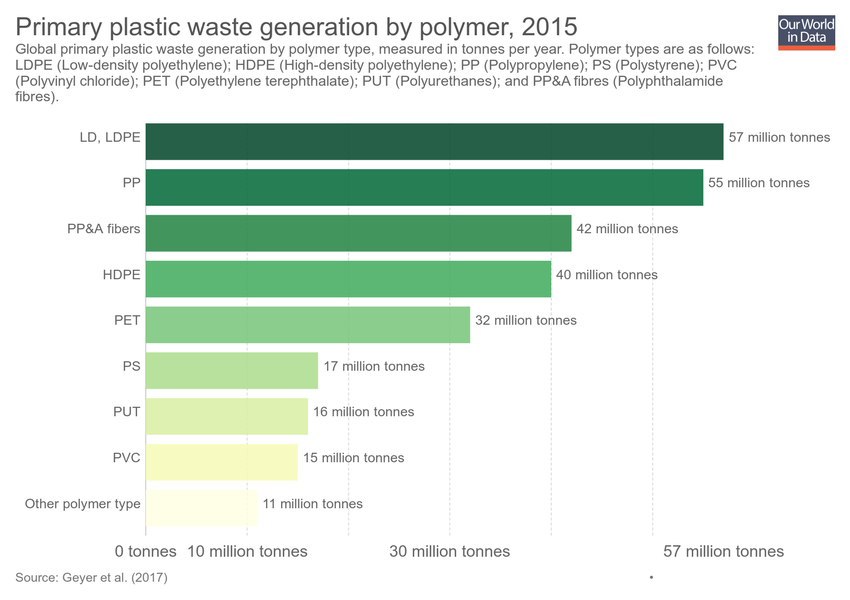
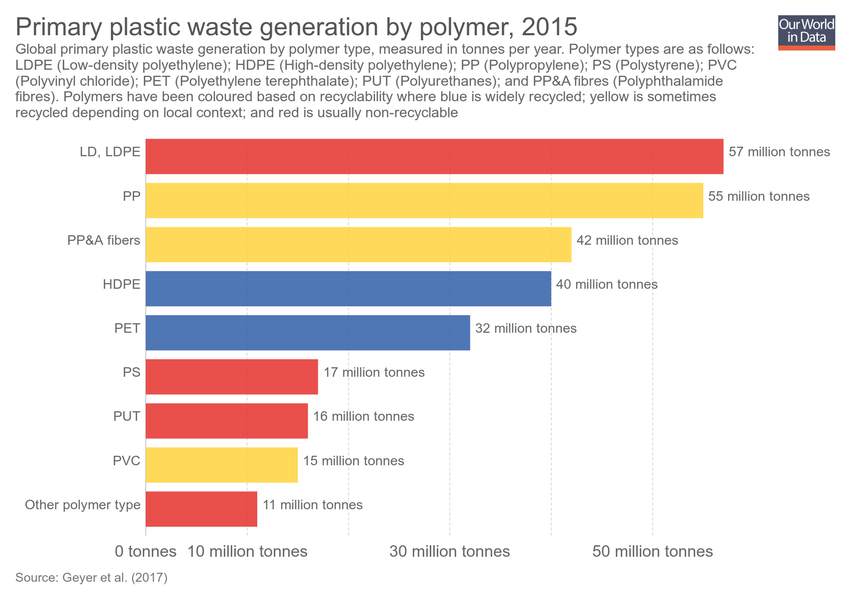
Updating chart plastic-waste-polymer

Changed region(s): [[0.0, 0.15, 0.9788, 0.9], [0.7035, 0.9, 0.9176, 0.93]]

diff --git a/grapher/plastic-waste-polymer.html b/grapher/plastic-waste-polymer.html
@@ -1,7 +1,7 @@
-<!doctype html><html><head><meta name="viewport" content="width=device-width, initial-scale=1" /><title>Primary plastic waste generation by polymer - Our World in Data</title><meta name="description" content="Global primary plastic waste generation by polymer type, measured in tonnes per year. Polymer types are as follows: LDPE (Low-density polyethylene); HDPE (High-density polyethylene); PP (Polypropylene); PS (Polystyrene); PVC (Polyvinyl chloride); PET (Polyethylene terephthalate); PUT (Polyurethanes); and PP&amp;A fibres (Polyphthalamide fibres).
-" /><link rel="canonical" href="https://ourworldindata.org/grapher/plastic-waste-polymer" /><meta property="fb:app_id" content="1149943818390250" /><meta property="og:url" content="https://ourworldindata.org/grapher/plastic-waste-polymer" /><meta property="og:title" content="Primary plastic waste generation by polymer" /><meta property="og:description" content="Global primary plastic waste generation by polymer type, measured in tonnes per year. Polymer types are as follows: LDPE (Low-density polyethylene); HDPE (High-density polyethylene); PP (Polypropylene); PS (Polystyrene); PVC (Polyvinyl chloride); PET (Polyethylene terephthalate); PUT (Polyurethanes); and PP&amp;A fibres (Polyphthalamide fibres).
-" /><meta property="og:image" content="https://ourworldindata.org/grapher/exports/plastic-waste-polymer.png?v=1" /><meta property="og:image:width" content="850" /><meta property="og:image:height" content="600" /><meta property="og:site_name" content="Our World in Data" /><meta name="twitter:card" content="summary_large_image" /><meta name="twitter:site" content="@OurWorldInData" /><meta name="twitter:creator" content="@OurWorldInData" /><meta name="twitter:title" content="Primary plastic waste generation by polymer" /><meta name="twitter:description" content="Global primary plastic waste generation by polymer type, measured in tonnes per year. Polymer types are as follows: LDPE (Low-density polyethylene); HDPE (High-density polyethylene); PP (Polypropylene); PS (Polystyrene); PVC (Polyvinyl chloride); PET (Polyethylene terephthalate); PUT (Polyurethanes); and PP&amp;A fibres (Polyphthalamide fibres).
-" /><meta name="twitter:image" content="https://ourworldindata.org/grapher/exports/plastic-waste-polymer.png?v=1" /><style>
+<!doctype html><html><head><meta name="viewport" content="width=device-width, initial-scale=1" /><title>Primary plastic waste generation by polymer - Our World in Data</title><meta name="description" content="Global primary plastic waste generation by polymer type, measured in tonnes per year. Polymer types are as follows: LDPE (Low-density polyethylene); HDPE (High-density polyethylene); PP (Polypropylene); PS (Polystyrene); PVC (Polyvinyl chloride); PET (Polyethylene terephthalate); PUT (Polyurethanes); and PP&amp;A fibres (Polyphthalamide fibres). Polymers have been coloured based on recyclability where blue is widely recycled; yellow is sometimes recycled depending on local context; and red is usually non-recyclable
+" /><link rel="canonical" href="https://ourworldindata.org/grapher/plastic-waste-polymer" /><meta property="fb:app_id" content="1149943818390250" /><meta property="og:url" content="https://ourworldindata.org/grapher/plastic-waste-polymer" /><meta property="og:title" content="Primary plastic waste generation by polymer" /><meta property="og:description" content="Global primary plastic waste generation by polymer type, measured in tonnes per year. Polymer types are as follows: LDPE (Low-density polyethylene); HDPE (High-density polyethylene); PP (Polypropylene); PS (Polystyrene); PVC (Polyvinyl chloride); PET (Polyethylene terephthalate); PUT (Polyurethanes); and PP&amp;A fibres (Polyphthalamide fibres). Polymers have been coloured based on recyclability where blue is widely recycled; yellow is sometimes recycled depending on local context; and red is usually non-recyclable
+" /><meta property="og:image" content="https://ourworldindata.org/grapher/exports/plastic-waste-polymer.png?v=2" /><meta property="og:image:width" content="850" /><meta property="og:image:height" content="600" /><meta property="og:site_name" content="Our World in Data" /><meta name="twitter:card" content="summary_large_image" /><meta name="twitter:site" content="@OurWorldInData" /><meta name="twitter:creator" content="@OurWorldInData" /><meta name="twitter:title" content="Primary plastic waste generation by polymer" /><meta name="twitter:description" content="Global primary plastic waste generation by polymer type, measured in tonnes per year. Polymer types are as follows: LDPE (Low-density polyethylene); HDPE (High-density polyethylene); PP (Polypropylene); PS (Polystyrene); PVC (Polyvinyl chloride); PET (Polyethylene terephthalate); PUT (Polyurethanes); and PP&amp;A fibres (Polyphthalamide fibres). Polymers have been coloured based on recyclability where blue is widely recycled; yellow is sometimes recycled depending on local context; and red is usually non-recyclable
+" /><meta name="twitter:image" content="https://ourworldindata.org/grapher/exports/plastic-waste-polymer.png?v=2" /><style>
         html, body {
             height: 100%;
             margin: 0;
@@ -23,8 +23,8 @@
         }
     </style><noscript><style>
                     figure { display: none !important; }
-                </style></noscript><link rel="stylesheet" href="https://ourworldindata.org/grapher/assets/commons.bundle.0cade97703a5a10acaac.css" /><link rel="preload" href="/grapher/data/variables/97695.json?v=1" as="fetch" crossorigin /></head><body class="singleChart"><figure data-grapher-src="/grapher/plastic-waste-polymer"></figure><noscript id="fallback"><img src="/grapher/exports/plastic-waste-polymer.svg" /><p>Interactive visualization requires JavaScript</p></noscript><script src="https://cdn.polyfill.io/v2/polyfill.min.js?features=es6,fetch"></script><script src="https://ourworldindata.org/grapher/assets/commons.bundle.0cade97703a5a10acaac.js"></script><script src="https://ourworldindata.org/grapher/assets/charts.bundle.0cade97703a5a10acaac.js"></script><script>
-        var jsonConfig = {"map":{"projection":"World","colorSchemeLabels":[],"colorSchemeValues":[],"customNumericColors":[],"customCategoryColors":{},"customCategoryLabels":{},"customHiddenCategories":{}},"tab":"chart","slug":"plastic-waste-polymer","type":"DiscreteBar","title":"Primary plastic waste generation by polymer","xAxis":{"scaleType":"linear"},"yAxis":{"min":0,"scaleType":"linear"},"version":1,"subtitle":"Global primary plastic waste generation by polymer type, measured in tonnes per year. Polymer types are as follows: LDPE (Low-density polyethylene); HDPE (High-density polyethylene); PP (Polypropylene); PS (Polystyrene); PVC (Polyvinyl chloride); PET (Polyethylene terephthalate); PUT (Polyurethanes); and PP&A fibres (Polyphthalamide fibres).\n","hasMapTab":false,"stackMode":"absolute","dimensions":[{"display":{"unit":"tonnes","shortUnit":"tonnes","conversionFactor":1000000},"property":"y","variableId":97695}],"sourceDesc":"Geyer et al. (2017)","hasChartTab":true,"isPublished":true,"selectedData":[{"index":0,"entityId":37790},{"index":0,"entityId":37791},{"index":0,"entityId":37798},{"index":0,"entityId":37795},{"index":0,"entityId":37797},{"index":0,"entityId":37792},{"index":0,"entityId":37793},{"index":0,"entityId":37796},{"index":0,"entityId":37794}],"addCountryMode":"disabled","baseColorScheme":"YlGn","id":2898};
+                </style></noscript><link rel="stylesheet" href="https://ourworldindata.org/grapher/assets/commons.bundle.0cade97703a5a10acaac.css" /><link rel="preload" href="/grapher/data/variables/97695.json?v=2" as="fetch" crossorigin /></head><body class="singleChart"><figure data-grapher-src="/grapher/plastic-waste-polymer"></figure><noscript id="fallback"><img src="/grapher/exports/plastic-waste-polymer.svg" /><p>Interactive visualization requires JavaScript</p></noscript><script src="https://cdn.polyfill.io/v2/polyfill.min.js?features=es6,fetch"></script><script src="https://ourworldindata.org/grapher/assets/commons.bundle.0cade97703a5a10acaac.js"></script><script src="https://ourworldindata.org/grapher/assets/charts.bundle.0cade97703a5a10acaac.js"></script><script>
+        var jsonConfig = {"id":2898,"map":{"projection":"World","colorSchemeLabels":[],"colorSchemeValues":[],"customNumericColors":[],"customCategoryColors":{},"customCategoryLabels":{},"customHiddenCategories":{}},"tab":"chart","slug":"plastic-waste-polymer","type":"DiscreteBar","title":"Primary plastic waste generation by polymer","xAxis":{"scaleType":"linear"},"yAxis":{"min":0,"scaleType":"linear"},"version":2,"subtitle":"Global primary plastic waste generation by polymer type, measured in tonnes per year. Polymer types are as follows: LDPE (Low-density polyethylene); HDPE (High-density polyethylene); PP (Polypropylene); PS (Polystyrene); PVC (Polyvinyl chloride); PET (Polyethylene terephthalate); PUT (Polyurethanes); and PP&A fibres (Polyphthalamide fibres). Polymers have been coloured based on recyclability where blue is widely recycled; yellow is sometimes recycled depending on local context; and red is usually non-recyclable\n","hasMapTab":false,"stackMode":"absolute","dimensions":[{"display":{"unit":"tonnes","shortUnit":"tonnes","conversionFactor":1000000},"property":"y","variableId":97695}],"sourceDesc":"Geyer et al. (2017)","hasChartTab":true,"isPublished":true,"selectedData":[{"color":"#e6332e","index":0,"entityId":37790},{"color":"#3360a9","index":0,"entityId":37791},{"color":"#e6332e","index":0,"entityId":37798},{"color":"#3360a9","index":0,"entityId":37795},{"color":"#ffd53e","index":0,"entityId":37797},{"color":"#ffd53e","index":0,"entityId":37792},{"color":"#e6332e","index":0,"entityId":37793},{"color":"#e6332e","index":0,"entityId":37796},{"color":"#ffd53e","index":0,"entityId":37794}],"addCountryMode":"disabled","baseColorScheme":"YlGn"};
         var figure = document.getElementsByTagName("figure")[0];
         try {
             window.App = {};
